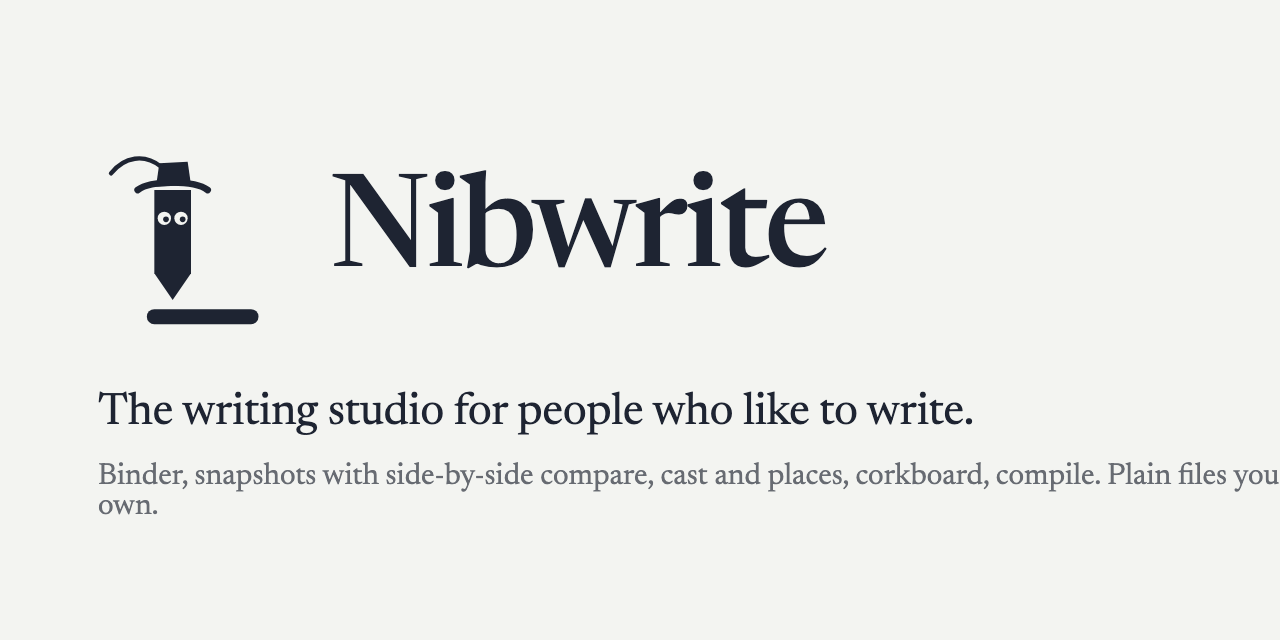
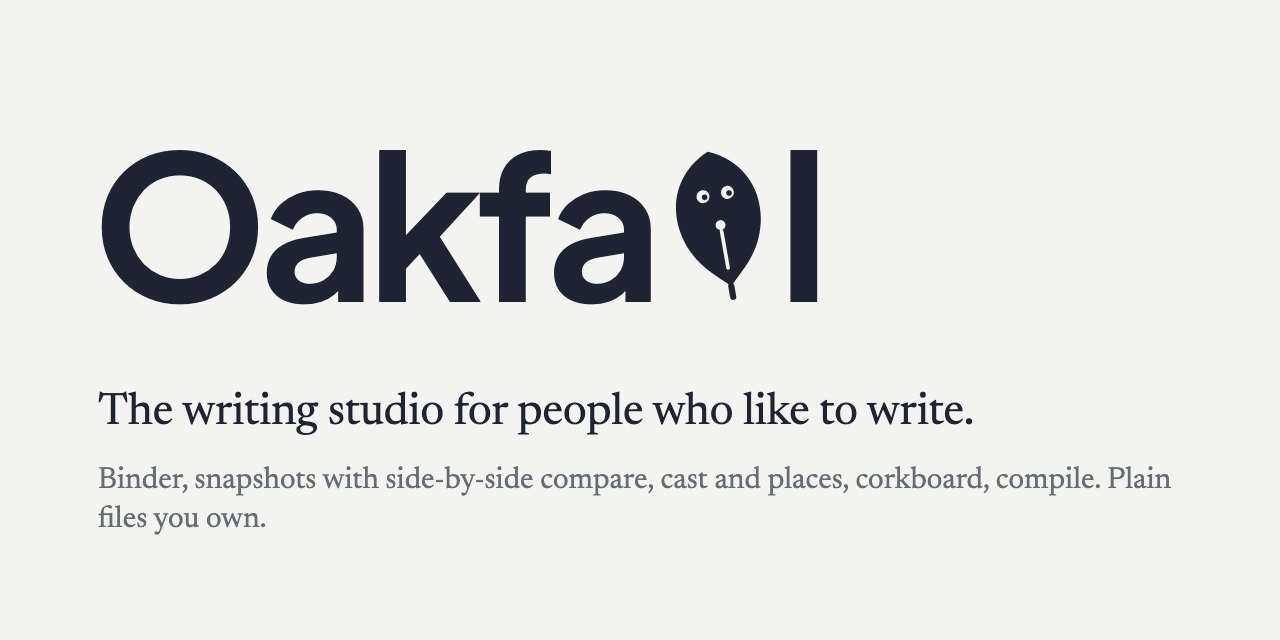
feat(site): Gall-as-l lockup replaces the Nib Rider sting; leaf Gall throughout

Changed region(s): [[0.0625, 0.2188, 0.6562, 0.5312], [0.0625, 0.7188, 1.0, 0.8438]]

diff --git a/index.html b/index.html
@@ -12,7 +12,7 @@
 <meta name="twitter:card" content="summary_large_image">
 <link rel="preconnect" href="https://fonts.googleapis.com">
 <link rel="preconnect" href="https://fonts.gstatic.com" crossorigin>
-<link href="https://fonts.googleapis.com/css2?family=Newsreader:ital,opsz,wght@0,6..72,400;0,6..72,500;0,6..72,600;1,6..72,400&display=swap" rel="stylesheet">
+<link href="https://fonts.googleapis.com/css2?family=Newsreader:ital,opsz,wght@0,6..72,400;0,6..72,500;0,6..72,600;1,6..72,400&family=Plus+Jakarta+Sans:wght@700&display=swap" rel="stylesheet">
 <style>
   :root {
     --paper: #F3F4F1;
@@ -300,12 +300,28 @@
     header nav a { margin-left: 1rem; }
   }
   @media (prefers-reduced-motion: reduce) { del, ins { transition: none; } }
+
+  /* the lockup: Plus Jakarta Sans with Gall as the l. The face never changes. */
+  .wm{font-family:"Plus Jakarta Sans","Helvetica Neue",Arial,sans-serif;font-weight:700;letter-spacing:-.04em;line-height:1;display:inline-flex;align-items:flex-end;color:var(--ink);font-style:normal}
+  .wm-s{font-size:1.7rem}.wm-l{font-size:clamp(4.5rem,13vw,9.5rem)}
+  .gall-l{display:inline-block;width:.62em;height:.98em;margin:0 -.02em 0 .02em;cursor:pointer;perspective:300px}
+  .gall-l svg{width:100%;height:100%;overflow:visible;display:block}
+  .gall-l .gl{transform-box:fill-box;transform-origin:50% 60%}
+  .gall-l.turn .gl{animation:turn 1.4s ease-in-out}
+  @keyframes turn{0%{transform:rotateY(0)}45%{transform:rotateY(180deg)}100%{transform:rotateY(360deg)}}
+  .gall-l.blink .eyes{transform:scaleY(.1);transform-box:fill-box;transform-origin:center}
+  .hero{padding:3.5rem 0 1rem}
+  .hero-note{color:var(--graphite);font-size:1rem;margin:.6rem 0 0}
+  header .name{gap:0}
+  .gall .icon svg,.av-g{width:100%;height:100%}
+  .gall .icon{color:var(--paper)}
+  @media (prefers-reduced-motion: reduce){.gall-l .gl{animation:none!important}}
 </style>
 </head>
 <body>
 <div class="wrap">
   <header>
-    <div class="name"><svg viewBox="0 -14 100 114" aria-hidden="true"><use href="#gall-icon"/></svg>Oakfall</div>
+    <div class="name"><span class="wm wm-s" aria-label="Oakfall">Oakfa<span class="gall-l" title="Gall"><svg class="" viewBox="10 -2 80 104" aria-hidden="true"><g class="gl"><g transform="rotate(-10 50 50)"><path d="M50 4 C 74 14, 84 40, 72 66 C 66 78, 58 84, 50 92 C 42 84, 34 78, 28 66 C 16 40, 26 14, 50 4Z" fill="currentColor"/><g class="eyes"><circle cx="42" cy="32" r="4.2" fill="var(--paper)"/><circle cx="58" cy="32" r="4.2" fill="var(--paper)"/><circle cx="43" cy="32.6" r="1.8" fill="currentColor"/><circle cx="59" cy="32.6" r="1.8" fill="currentColor"/></g><circle cx="50" cy="52" r="3.2" fill="var(--paper)"/><path d="M50 56 V 80" stroke="var(--paper)" stroke-width="2.4" stroke-linecap="round"/><path d="M50 92 V 99" stroke="currentColor" stroke-width="4" stroke-linecap="round"/></g></g></svg></span>l</span></div>
     <nav>
       <a href="https://github.com/oakfall/oakfall">Plugin</a>
       <a href="https://github.com/oakfall/scrivener-to-obsidian">Importer</a>
@@ -316,178 +332,11 @@
     </nav>
   </header>
 
-  <!-- The Nib Rider sting, from brand/exploration/nib-rider-round-4.html. ?t=<seconds> freezes a frame for capture. -->
-  <style>
-  .sting-wrap{margin:1rem 0 2.5rem;background:var(--paper)}
-  .sting-wrap .stage{display:block;width:100%;height:auto}
-  .sting-wrap .sting-bar{display:flex;gap:12px;align-items:center;justify-content:flex-end;padding:6px 0 0;font-size:.9rem;color:var(--graphite)}
-  .sting-wrap button{font:inherit;font-size:.95rem;padding:4px 12px;border:1px solid var(--ink);background:var(--paper);color:var(--ink);border-radius:6px;cursor:pointer}
-  .sting-wrap button:hover{background:var(--ink);color:var(--paper)}
-  #sting{--ride:4.6s;--lead:.5s}
-/* the rider's point follows the same path the ink is drawn along, at the same linear rate */
-.rider{offset-path:path("M-260 362 C -200 362, -160 320, -90 346 S 20 396, 100 344 S 220 306, 300 350 S 420 398, 500 344 S 620 304, 700 350 S 820 398, 900 344 S 1020 306, 1100 350 S 1220 392, 1300 352 S 1400 330, 1460 352");offset-rotate:0deg;offset-distance:0%}
-#sting.play .rider{animation:ride var(--ride) linear var(--lead) forwards, vanish .01s linear calc(var(--ride) + var(--lead)) forwards}
-#sting.play .trail{animation:draw var(--ride) linear var(--lead) forwards, settle 1s ease-out calc(var(--ride) + var(--lead) + .2s) forwards}
-@keyframes settle{to{opacity:.3}}
-#sting.play .depth{animation:depth .98s ease-in-out infinite}
-#sting.play .shadow{animation:shadow .98s ease-in-out infinite}
-#sting.play .skate{animation:skate .33s ease-in-out infinite}
-#sting.play .plume{animation:plume .33s ease-in-out infinite}
-#sting.play .cape{animation:cape .33s ease-in-out infinite}
-#sting.play .trees-far{animation:parallax calc(var(--ride) + var(--lead)) linear forwards}
-#sting.play .trees-near{animation:parallax-near calc(var(--ride) + var(--lead)) linear forwards}
-#sting.play .trees-front{animation:parallax-front calc(var(--ride) + var(--lead)) linear forwards}
-#sting.play .word{animation:word 1.1s ease-out calc(var(--ride) + var(--lead) + .3s) forwards}
-#sting.play .stand{animation:peek 1.3s cubic-bezier(.2,.9,.3,1.2) calc(var(--ride) + var(--lead) + .9s) forwards}
-@keyframes peek{to{transform:translate(0,0) rotate(0)}}
-#sting.play .stand .blink{animation:blink 3.2s step-end calc(var(--ride) + var(--lead) + 2s) infinite}
-#sting.play .stand .tip{animation:tip .9s ease-in-out calc(var(--ride) + var(--lead) + 2s) 1}
-@keyframes ride{from{offset-distance:0%}to{offset-distance:100%}}
-@keyframes vanish{to{opacity:0}}
-@keyframes appear{to{opacity:1}}
-@keyframes draw{to{stroke-dashoffset:0}}
-@keyframes depth{0%,100%{transform:scale(.92)}50%{transform:scale(1.08)}}
-@keyframes shadow{0%,100%{transform:scale(.7);opacity:.10}50%{transform:scale(1.15);opacity:.22}}
-@keyframes skate{0%,100%{transform:translateY(0) rotate(-3deg)}50%{transform:translateY(-7px) rotate(3deg)}}
-@keyframes plume{0%,100%{transform:rotate(0deg)}50%{transform:rotate(-16deg)}}
-@keyframes cape{0%,100%{transform:skewX(0) scaleX(1)}50%{transform:skewX(-12deg) scaleX(1.15)}}
-@keyframes parallax{to{transform:translateX(-90px)}}
-@keyframes parallax-near{to{transform:translateX(-260px)}}
-@keyframes parallax-front{to{transform:translateX(-620px)}}
-@keyframes word{to{opacity:1;transform:translateY(0)}}
-@keyframes blink{0%,94%{transform:scaleY(1)}95%,100%{transform:scaleY(.08)}}
-@keyframes tip{0%,100%{transform:rotate(0)}40%{transform:rotate(-24deg) translateY(-6px)}}
-.word{opacity:0;transform:translateY(10px)}
-.word-rule{stroke-dasharray:420;stroke-dashoffset:420}
-#sting.play .word-rule{animation:draw-rule .9s ease-out calc(var(--ride) + var(--lead) + .6s) forwards}
-@keyframes draw-rule{to{stroke-dashoffset:0}}
-.stand{transform:translate(0,170px) rotate(22deg)}
-.depth{transform-origin:0 0}
-.shadow{transform-origin:center;transform-box:fill-box}
-.blink{transform-origin:center;transform-box:fill-box}
-.tip{transform-origin:60% 100%;transform-box:fill-box}
-.skate,.plume,.cape{transform-box:fill-box}
-.skate{transform-origin:50% 100%}
-.plume{transform-origin:right center}
-.cape{transform-origin:right center}
-/* end state, for reduced motion: the line already drawn and faded, the word up, the icon on its line */
-#sting.done .rider{opacity:0}
-#sting.done .trail{opacity:.3;stroke-dashoffset:0!important}
-#sting.done .word{opacity:1;transform:none}
-#sting.done .word-rule{stroke-dashoffset:0}
-#sting.done .stand{transform:none}
-
-  </style>
-  <svg width="0" height="0" style="position:absolute" aria-hidden="true">
-  <defs>
-    <!-- The mark itself, untouched. -->
-    <g id="mark-body">
-      <polygon points="28,10 50,10 50,60 39,76 28,60" fill="var(--ink)"/>
-      <circle cx="39" cy="44" r="3.5" fill="var(--paper)"/>
-      <line x1="39" y1="47" x2="39" y2="62" stroke="var(--paper)" stroke-width="3"/>
-    </g>
-    <!-- Eyes in the shoulders, above the breather hole. -->
-    <g id="mark-eyes" class="blink">
-      <circle cx="34" cy="27" r="4" fill="var(--paper)"/><circle cx="44" cy="27" r="4" fill="var(--paper)"/>
-      <circle cx="35" cy="27.6" r="1.7" fill="var(--ink)"/><circle cx="45" cy="27.6" r="1.7" fill="var(--ink)"/>
-    </g>
-    <!-- Musketeer hat on the square shoulders. -->
-    <g id="mark-hat" class="tip">
-      <path d="M18 10 C 26 4, 52 4, 60 10" stroke="var(--ink)" stroke-width="4" stroke-linecap="round" fill="none"/>
-      <path d="M29 8 L 31 -6 L 48 -7 L 50 7 Z" fill="var(--ink)"/>
-      <g class="plume">
-        <path d="M32 -4 C 22 -12, 10 -10, 2 0" stroke="var(--ink)" stroke-width="2.6" stroke-linecap="round" fill="none"/>
-        <path d="M30 -7 C 22 -13, 14 -12, 8 -7" stroke="var(--ink)" stroke-width="1.4" stroke-linecap="round" fill="none" opacity=".6"/>
-      </g>
-    </g>
-
-    <!-- A. Gall on the move: the mark, on its own baseline, with cape, arms, rapier. viewBox -10 -20 120 120 -->
-    <symbol id="gall" viewBox="-10 -20 120 120">
-      <g class="skate">
-        <g class="cape"><path d="M30 30 C 18 26, 10 36, 0 32 C 8 44, 20 46, 30 42 Z" fill="var(--ink)" opacity=".9"/></g>
-        <use href="#mark-body"/>
-        <use href="#mark-eyes"/>
-        <!-- arms -->
-        <path d="M29 36 C 22 40, 18 46, 20 52" stroke="var(--ink)" stroke-width="4" stroke-linecap="round" fill="none"/>
-        <path d="M49 34 C 56 32, 62 26, 66 18" stroke="var(--ink)" stroke-width="4" stroke-linecap="round" fill="none"/>
-        <!-- rapier -->
-        <path d="M66 18 L 78 -4" stroke="var(--ink)" stroke-width="1.8" stroke-linecap="round"/>
-        <path d="M63 21 C 66 17, 69 17, 71 20" stroke="var(--ink)" stroke-width="1.6" stroke-linecap="round" fill="none"/>
-        <use href="#mark-hat"/>
-      </g>
-    </symbol>
-
-    <!-- B. The mark with eyes and hat, standing on its line. The app's assistant icon. viewBox 0 -14 100 114 -->
-    <symbol id="gall-icon" viewBox="0 -14 100 114">
-      <use href="#mark-body"/>
-      <use href="#mark-eyes"/>
-      <use href="#mark-hat"/>
-      <path d="M28 86 H 86" stroke="var(--ink)" stroke-width="9" stroke-linecap="round"/>
-    </symbol>
-
-    <!-- C. Hello: hat off, held out, standing on the line. -->
-    <symbol id="gall-bow" viewBox="-10 -14 120 114">
-      <use href="#mark-body"/>
-      <g class="blink">
-        <circle cx="34" cy="27" r="4" fill="var(--paper)"/><circle cx="44" cy="27" r="4" fill="var(--paper)"/>
-        <circle cx="34" cy="28.4" r="1.7" fill="var(--ink)"/><circle cx="44" cy="28.4" r="1.7" fill="var(--ink)"/>
-      </g>
-      <path d="M29 36 C 20 38, 14 34, 12 28" stroke="var(--ink)" stroke-width="4" stroke-linecap="round" fill="none"/>
-      <path d="M49 36 C 58 40, 66 38, 70 32" stroke="var(--ink)" stroke-width="4" stroke-linecap="round" fill="none"/>
-      <g transform="translate(60 14) rotate(30)">
-        <path d="M0 18 C 8 12, 34 12, 42 18" stroke="var(--ink)" stroke-width="4" stroke-linecap="round" fill="none"/>
-        <path d="M11 16 L 13 2 L 30 1 L 32 15 Z" fill="var(--ink)"/>
-        <path d="M14 4 C 22 -4, 32 -5, 42 2" stroke="var(--ink)" stroke-width="2.4" stroke-linecap="round" fill="none"/>
-      </g>
-      <path d="M28 86 H 86" stroke="var(--ink)" stroke-width="9" stroke-linecap="round"/>
-    </symbol>
-      <!-- D. Standing, no baseline: for the end card, where the rule he just drew is his line -->
-    <symbol id="gall-stand" viewBox="0 -14 100 114">
-      <use href="#mark-body"/>
-      <use href="#mark-eyes"/>
-      <use href="#mark-hat"/>
-    </symbol>
-  </defs>
-</svg>
-  <div class="sting-wrap" aria-label="Gall, the assistant, gallops through a forest drawing a line of ink; Oakfall appears">
-    <svg id="sting" class="stage" viewBox="0 0 1120 480" role="img" aria-label="Gall gallops through a forest, weaving between trees, drawing an ink line that becomes the underline of Oakfall">
-    <rect width="1120" height="480" fill="var(--paper)"/>
-    <!-- far trees, faint, slow -->
-    <g class="trees-far" fill="var(--ink)" opacity=".08">
-      <path d="M40 420 L70 300 L100 420 Z"/><path d="M130 420 L150 340 L170 420 Z"/><path d="M230 420 L270 270 L310 420 Z"/><path d="M360 420 L380 330 L400 420 Z"/><path d="M470 420 L510 280 L550 420 Z"/><path d="M620 420 L640 350 L660 420 Z"/><path d="M720 420 L760 290 L800 420 Z"/><path d="M860 420 L880 340 L900 420 Z"/><path d="M960 420 L1000 270 L1040 420 Z"/><path d="M1100 420 L1130 320 L1160 420 Z"/><path d="M1200 420 L1240 280 L1280 420 Z"/>
-    </g>
-    <!-- mid trees, behind him -->
-    <g class="trees-near" fill="var(--ink)" opacity=".18">
-      <path d="M-20 440 L30 230 L80 440 Z"/><path d="M180 440 L210 320 L240 440 Z"/><path d="M300 440 L350 220 L400 440 Z"/><path d="M520 440 L550 330 L580 440 Z"/><path d="M700 440 L750 210 L800 440 Z"/><path d="M940 440 L970 320 L1000 440 Z"/><path d="M1120 440 L1170 230 L1220 440 Z"/><path d="M1340 440 L1370 320 L1400 440 Z"/>
-    </g>
-    <path d="M0 440 H1120" stroke="var(--ink)" stroke-width="3" opacity=".25"/>
-    <!-- the ink line -->
-    <path id="trail" class="trail" d="M-260 362 C -200 362, -160 320, -90 346 S 20 396, 100 344 S 220 306, 300 350 S 420 398, 500 344 S 620 304, 700 350 S 820 398, 900 344 S 1020 306, 1100 350 S 1220 392, 1300 352 S 1400 330, 1460 352" fill="none" stroke="var(--ink)" stroke-width="5" stroke-linecap="round"/>
-    <!-- Gall: the group's origin is his point; it rides the path -->
-    <g class="rider">
-      <g class="depth">
-        <ellipse class="shadow" cx="0" cy="8" rx="40" ry="7" fill="var(--ink)" opacity=".14"/>
-        <!-- 2.4x the mark; point (39,76) in a -10,-20 viewBox is (117.6, 230.4) -->
-        <svg x="-117.6" y="-230.4" width="288" height="288" viewBox="-10 -20 120 120"><use href="#gall"/></svg>
-      </g>
-    </g>
-    <!-- front trees, darkest and fastest, in front of him -->
-    <g class="trees-front" fill="var(--ink)" opacity=".34">
-      <path d="M60 470 L110 190 L160 470 Z"/><path d="M330 470 L360 300 L390 470 Z"/><path d="M620 470 L680 150 L740 470 Z"/><path d="M1000 470 L1040 260 L1080 470 Z"/><path d="M1320 470 L1380 160 L1440 470 Z"/><path d="M1620 470 L1660 280 L1700 470 Z"/>
-    </g>
-    <!-- the word rises as he starts the rule -->
-    <g class="word">
-      <text x="560" y="250" text-anchor="middle" font-family="Newsreader, Georgia, serif" font-weight="500" font-size="112" letter-spacing="-0.02em" fill="var(--ink)">Oakfall</text>
-    </g>
-    <path class="word-rule" d="M350 282 C 420 272, 700 272, 770 282" fill="none" stroke="var(--ink)" stroke-width="5" stroke-linecap="round"/>
-    <!-- the icon peeks up in the corner on its own line -->
-    <g class="stand">
-      <!-- point (39,76) in a 0,-14 viewBox at 2.4x is (93.6, 216); rule ends at (870,282) -->
-      <svg x="900" y="262" width="190" height="200" viewBox="0 -14 100 114"><use href="#gall-icon"/></svg>
-    </g>
-  </svg>
-    <div class="sting-bar"><button id="sting-play" type="button">Play again</button></div>
+  <div class="hero">
+    <div class="hero-mark"><span class="wm wm-l" aria-label="Oakfall">Oakfa<span class="gall-l" title="Gall"><svg class="" viewBox="10 -2 80 104" aria-hidden="true"><g class="gl"><g transform="rotate(-10 50 50)"><path d="M50 4 C 74 14, 84 40, 72 66 C 66 78, 58 84, 50 92 C 42 84, 34 78, 28 66 C 16 40, 26 14, 50 4Z" fill="currentColor"/><g class="eyes"><circle cx="42" cy="32" r="4.2" fill="var(--paper)"/><circle cx="58" cy="32" r="4.2" fill="var(--paper)"/><circle cx="43" cy="32.6" r="1.8" fill="currentColor"/><circle cx="59" cy="32.6" r="1.8" fill="currentColor"/></g><circle cx="50" cy="52" r="3.2" fill="var(--paper)"/><path d="M50 56 V 80" stroke="var(--paper)" stroke-width="2.4" stroke-linecap="round"/><path d="M50 92 V 99" stroke="currentColor" stroke-width="4" stroke-linecap="round"/></g></g></svg></span>l</span></div>
+    <p class="hero-note">Gall lives in the l. Click him.</p>
   </div>
+
 
   <h1>The writing studio for people who like to write.</h1>
   <p class="lede">Binder, snapshots with side-by-side compare, cast and places, corkboard, timeline, research, and compile, over a folder of plain Markdown. Today that is an Obsidian plugin and a Scrivener importer, both open. Next is the Oakfall app for desktop, tablet, and phone, with sync and the editor tools as the one subscription. Everything is stored as Markdown, frontmatter, and git commits, so <em>nothing needs Oakfall to be read.</em></p>
@@ -734,7 +583,7 @@
   <section class="feature" id="gall">
     <h2>Meet Gall.</h2>
     <div class="gall">
-      <div class="icon"><svg viewBox="0 0 100 100" aria-hidden="true"><polygon points="28,10 50,10 50,60 39,76 28,60" fill="currentColor"/><circle cx="39" cy="44" r="3.5" fill="#FBFBF9"/><line x1="39" y1="47" x2="39" y2="62" stroke="#FBFBF9" stroke-width="3"/><path d="M28 86 H 86" stroke="currentColor" stroke-width="9" stroke-linecap="round"/></svg></div>
+      <div class="icon"><svg class="av-g" viewBox="-6 -4 112 108" aria-hidden="true"><g class="gl"><g transform="rotate(-10 50 50)"><path d="M50 4 C 74 14, 84 40, 72 66 C 66 78, 58 84, 50 92 C 42 84, 34 78, 28 66 C 16 40, 26 14, 50 4Z" fill="currentColor"/><g class="eyes"><circle cx="42" cy="32" r="4.2" fill="var(--ink)"/><circle cx="58" cy="32" r="4.2" fill="var(--ink)"/><circle cx="43" cy="32.6" r="1.8" fill="currentColor"/><circle cx="59" cy="32.6" r="1.8" fill="currentColor"/></g><circle cx="50" cy="52" r="3.2" fill="var(--ink)"/><path d="M50 56 V 80" stroke="var(--ink)" stroke-width="2.4" stroke-linecap="round"/><path d="M50 92 V 99" stroke="currentColor" stroke-width="4" stroke-linecap="round"/></g></g></svg></div>
       <div>
         <p>Every studio has someone who knows where things are. Gall is Oakfall's. It lives in the margin, knows your manuscript, and stays out of your prose. Ask it what changed in chapter four since the June draft, where Tom was last seen, which scenes still mention the tin after you cut it, or whether a synopsis still matches its scene. It answers from your files and your history, and anything it changes lands as an ordinary edit or a snapshot you can undo.</p>
         <p>Half of Gall needs no model at all. Where someone was last seen, what is set at a place, who is in a scene, which places have no scene yet, how long a chapter is, where a note sits on a map: those are lookups over your files, and that half of Gall is open source, works offline, and ships with the plugin and the app. The half that reads your prose is the hosted one.</p>
@@ -743,10 +592,10 @@
     </div>
     <div class="chat" aria-label="Example conversation with Gall">
       <div class="msg"><div class="av">You</div><div><p class="you">what changed in the tin since the june snapshot?</p></div></div>
-      <div class="msg"><div class="av n"><svg viewBox="0 0 100 100" aria-hidden="true"><polygon points="28,10 50,10 50,60 39,76 28,60" fill="currentColor"/><circle cx="39" cy="44" r="3.5" fill="#FBFBF9"/><line x1="39" y1="47" x2="39" y2="62" stroke="#FBFBF9" stroke-width="3"/><path d="M28 86 H 86" stroke="currentColor" stroke-width="9" stroke-linecap="round"/></svg></div><div><p>Two things in <em>02 The Tin</em> since “Second draft, 2 Oct 2021”: the dream sequence is gone, 412 words, and Mara now opens the tin in the kitchen instead of the yard. Tom is not mentioned in either version.</p><p><span class="act">Compare side by side</span><span class="act">Restore the dream sequence</span></p></div></div>
+      <div class="msg"><div class="av n"><svg class="av-g" viewBox="-6 -4 112 108" aria-hidden="true"><g class="gl"><g transform="rotate(-10 50 50)"><path d="M50 4 C 74 14, 84 40, 72 66 C 66 78, 58 84, 50 92 C 42 84, 34 78, 28 66 C 16 40, 26 14, 50 4Z" fill="currentColor"/><g class="eyes"><circle cx="42" cy="32" r="4.2" fill="var(--ink)"/><circle cx="58" cy="32" r="4.2" fill="var(--ink)"/><circle cx="43" cy="32.6" r="1.8" fill="currentColor"/><circle cx="59" cy="32.6" r="1.8" fill="currentColor"/></g><circle cx="50" cy="52" r="3.2" fill="var(--ink)"/><path d="M50 56 V 80" stroke="var(--ink)" stroke-width="2.4" stroke-linecap="round"/><path d="M50 92 V 99" stroke="currentColor" stroke-width="4" stroke-linecap="round"/></g></g></svg></div><div><p>Two things in <em>02 The Tin</em> since “Second draft, 2 Oct 2021”: the dream sequence is gone, 412 words, and Mara now opens the tin in the kitchen instead of the yard. Tom is not mentioned in either version.</p><p><span class="act">Compare side by side</span><span class="act">Restore the dream sequence</span></p></div></div>
       <div class="msg"><div class="av">You</div><div><p class="you">did i lose anything that other scenes depend on?</p></div></div>
-      <div class="msg"><div class="av n"><svg viewBox="0 0 100 100" aria-hidden="true"><polygon points="28,10 50,10 50,60 39,76 28,60" fill="currentColor"/><circle cx="39" cy="44" r="3.5" fill="#FBFBF9"/><line x1="39" y1="47" x2="39" y2="62" stroke="#FBFBF9" stroke-width="3"/><path d="M28 86 H 86" stroke="currentColor" stroke-width="9" stroke-linecap="round"/></svg></div><div><p>One thing. <em>08 Last Stall</em> refers to “the dream about the buttons,” which only existed in the cut passage. Nothing else in Part One or Two points at it.</p><p><span class="act">Open 08 Last Stall at that line</span></p></div></div>
-      <div class="msg"><div class="av n"><svg viewBox="0 0 100 100" aria-hidden="true"><polygon points="28,10 50,10 50,60 39,76 28,60" fill="currentColor"/><circle cx="39" cy="44" r="3.5" fill="#FBFBF9"/><line x1="39" y1="47" x2="39" y2="62" stroke="#FBFBF9" stroke-width="3"/><path d="M28 86 H 86" stroke="currentColor" stroke-width="9" stroke-linecap="round"/></svg></div><div><p>It looks like you're rewriting chapter four. Want the June draft beside it? That was the one joke. It will not happen again.</p></div></div>
+      <div class="msg"><div class="av n"><svg class="av-g" viewBox="-6 -4 112 108" aria-hidden="true"><g class="gl"><g transform="rotate(-10 50 50)"><path d="M50 4 C 74 14, 84 40, 72 66 C 66 78, 58 84, 50 92 C 42 84, 34 78, 28 66 C 16 40, 26 14, 50 4Z" fill="currentColor"/><g class="eyes"><circle cx="42" cy="32" r="4.2" fill="var(--ink)"/><circle cx="58" cy="32" r="4.2" fill="var(--ink)"/><circle cx="43" cy="32.6" r="1.8" fill="currentColor"/><circle cx="59" cy="32.6" r="1.8" fill="currentColor"/></g><circle cx="50" cy="52" r="3.2" fill="var(--ink)"/><path d="M50 56 V 80" stroke="var(--ink)" stroke-width="2.4" stroke-linecap="round"/><path d="M50 92 V 99" stroke="currentColor" stroke-width="4" stroke-linecap="round"/></g></g></svg></div><div><p>One thing. <em>08 Last Stall</em> refers to “the dream about the buttons,” which only existed in the cut passage. Nothing else in Part One or Two points at it.</p><p><span class="act">Open 08 Last Stall at that line</span></p></div></div>
+      <div class="msg"><div class="av n"><svg class="av-g" viewBox="-6 -4 112 108" aria-hidden="true"><g class="gl"><g transform="rotate(-10 50 50)"><path d="M50 4 C 74 14, 84 40, 72 66 C 66 78, 58 84, 50 92 C 42 84, 34 78, 28 66 C 16 40, 26 14, 50 4Z" fill="currentColor"/><g class="eyes"><circle cx="42" cy="32" r="4.2" fill="var(--ink)"/><circle cx="58" cy="32" r="4.2" fill="var(--ink)"/><circle cx="43" cy="32.6" r="1.8" fill="currentColor"/><circle cx="59" cy="32.6" r="1.8" fill="currentColor"/></g><circle cx="50" cy="52" r="3.2" fill="var(--ink)"/><path d="M50 56 V 80" stroke="var(--ink)" stroke-width="2.4" stroke-linecap="round"/><path d="M50 92 V 99" stroke="currentColor" stroke-width="4" stroke-linecap="round"/></g></g></svg></div><div><p>It looks like you're rewriting chapter four. Want the June draft beside it? That was the one joke. It will not happen again.</p></div></div>
     </div>
   </section>
 
@@ -1042,19 +891,19 @@ scriv2obsidian convert -out ~/Writing -git Novel.scriv</pre>
   frame();
 })();
 </script>
-<script>
-const s=document.getElementById('sting');
-const trail=document.getElementById('trail');
-const L=trail.getTotalLength();
-trail.style.strokeDasharray=L;trail.style.strokeDashoffset=L;
-const play=()=>{s.classList.remove('play');void s.getBoundingClientRect();s.classList.add('play')};
-document.getElementById('sting-play').onclick=play;
 
-const t=new URLSearchParams(location.search).get('t');
-const reduce=window.matchMedia&&window.matchMedia('(prefers-reduced-motion: reduce)').matches;
-if(t!==null){s.classList.add('play');requestAnimationFrame(()=>{for(const a of document.getAnimations()){a.pause();a.currentTime=parseFloat(t)*1000;}});}
-else if(reduce){s.classList.add('done');}
-else setTimeout(play,400);
+<script>
+  // Gall: blinks, and turns over like a leaf now and then and when clicked.
+  (function () {
+    var reduce = window.matchMedia && window.matchMedia('(prefers-reduced-motion: reduce)').matches;
+    var ls = document.querySelectorAll('.gall-l');
+    function turn(el) { el.classList.remove('turn'); void el.offsetWidth; el.classList.add('turn'); setTimeout(function () { el.classList.remove('turn'); }, 1500); }
+    function blink(el) { el.classList.add('blink'); setTimeout(function () { el.classList.remove('blink'); }, 130); }
+    ls.forEach(function (el) { el.addEventListener('click', function () { turn(el); }); });
+    if (reduce) return;
+    setTimeout(function () { ls.forEach(turn); }, 900);
+    (function life() { setTimeout(function () { ls.forEach(function (el) { Math.random() < .2 ? turn(el) : blink(el); }); life(); }, 3000 + Math.random() * 3500); })();
+  })();
 </script>
 </body>
 </html>

diff --git a/brand/social/social-preview.html b/brand/social/social-preview.html
@@ -1,14 +1,13 @@
 <!doctype html><meta charset="utf-8">
-<link href="https://fonts.googleapis.com/css2?family=Newsreader:opsz,wght@6..72,400;6..72,500&display=block" rel="stylesheet">
+<link href="https://fonts.googleapis.com/css2?family=Newsreader:opsz,wght@6..72,400;6..72,500&family=Plus+Jakarta+Sans:wght@700&display=block" rel="stylesheet">
 <style>html,body{margin:0;width:1280px;height:640px;overflow:hidden;background:#F3F4F1}
-.card{position:relative;width:1280px;height:640px;font-family:"Newsreader",Georgia,serif;color:#1E2432}
-svg{position:absolute;left:96px;top:150px;width:190px;height:190px}
-.name{position:absolute;left:330px;top:172px;font-size:128px;font-weight:500;letter-spacing:-3px;line-height:1}
+.card{position:relative;width:1280px;height:640px;font-family:"Newsreader",Georgia,serif;color:#1E2432;--paper:#F3F4F1}
+.wm{position:absolute;left:92px;top:120px;font-family:"Plus Jakarta Sans",sans-serif;font-weight:700;font-size:200px;letter-spacing:-.04em;line-height:1;display:inline-flex;align-items:flex-end}
+.gall-l{display:inline-block;width:.62em;height:.98em;margin:0 -.02em 0 .02em}.gall-l svg{width:100%;height:100%;overflow:visible}
 .tag{position:absolute;left:98px;top:392px;font-size:44px}
-.sub{position:absolute;left:98px;top:462px;font-size:30px;color:#676B72}</style>
+.sub{position:absolute;left:98px;top:462px;right:96px;font-size:30px;line-height:1.3;color:#676B72}</style>
 <div class="card">
-<svg viewBox="0 -14 100 114"><polygon points="28,10 50,10 50,60 39,76 28,60" fill="#1E2432"/><circle cx="34" cy="27" r="4" fill="#F3F4F1"/><circle cx="44" cy="27" r="4" fill="#F3F4F1"/><circle cx="35" cy="27.6" r="1.7" fill="#1E2432"/><circle cx="45" cy="27.6" r="1.7" fill="#1E2432"/><path d="M18 10 C 26 4, 52 4, 60 10" stroke="#1E2432" stroke-width="4" stroke-linecap="round" fill="none"/><path d="M29 8 L 31 -6 L 48 -7 L 50 7 Z" fill="#1E2432"/><path d="M32 -4 C 22 -12, 10 -10, 2 0" stroke="#1E2432" stroke-width="2.6" stroke-linecap="round" fill="none"/><path d="M28 86 H 86" stroke="#1E2432" stroke-width="9" stroke-linecap="round"/></svg>
-<div class="name">Oakfall</div>
+<span class="wm">Oakfa<span class="gall-l"><svg class="" viewBox="10 -2 80 104" aria-hidden="true"><g class="gl"><g transform="rotate(-10 50 50)"><path d="M50 4 C 74 14, 84 40, 72 66 C 66 78, 58 84, 50 92 C 42 84, 34 78, 28 66 C 16 40, 26 14, 50 4Z" fill="currentColor"/><g class="eyes"><circle cx="42" cy="32" r="4.2" fill="#F3F4F1"/><circle cx="58" cy="32" r="4.2" fill="#F3F4F1"/><circle cx="43" cy="32.6" r="1.8" fill="currentColor"/><circle cx="59" cy="32.6" r="1.8" fill="currentColor"/></g><circle cx="50" cy="52" r="3.2" fill="#F3F4F1"/><path d="M50 56 V 80" stroke="#F3F4F1" stroke-width="2.4" stroke-linecap="round"/><path d="M50 92 V 99" stroke="currentColor" stroke-width="4" stroke-linecap="round"/></g></g></svg></span>l</span>
 <div class="tag">The writing studio for people who like to write.</div>
 <div class="sub">Binder, snapshots with side-by-side compare, cast and places, corkboard, compile. Plain files you own.</div>
 </div>

diff --git a/faq.html b/faq.html
@@ -12,7 +12,7 @@
 <meta name="twitter:card" content="summary_large_image">
 <link rel="preconnect" href="https://fonts.googleapis.com">
 <link rel="preconnect" href="https://fonts.gstatic.com" crossorigin>
-<link href="https://fonts.googleapis.com/css2?family=Newsreader:ital,opsz,wght@0,6..72,400;0,6..72,500;0,6..72,600;1,6..72,400&display=swap" rel="stylesheet">
+<link href="https://fonts.googleapis.com/css2?family=Newsreader:ital,opsz,wght@0,6..72,400;0,6..72,500;0,6..72,600;1,6..72,400&family=Plus+Jakarta+Sans:wght@700&display=swap" rel="stylesheet">
 <style>
   :root {
     --paper: #F3F4F1;
@@ -320,6 +320,17 @@
     header nav a { margin-left: 1rem; }
   }
   @media (prefers-reduced-motion: reduce) { del, ins { transition: none; } }
+
+  /* the lockup: Plus Jakarta Sans with Gall as the l. The face never changes. */
+  .wm{font-family:"Plus Jakarta Sans","Helvetica Neue",Arial,sans-serif;font-weight:700;letter-spacing:-.04em;line-height:1;display:inline-flex;align-items:flex-end;color:var(--ink);font-style:normal}
+  .wm-s{font-size:1.7rem}.wm-l{font-size:clamp(4.5rem,13vw,9.5rem)}
+  .gall-l{display:inline-block;width:.62em;height:.98em;margin:0 -.02em 0 .02em;cursor:pointer;perspective:300px}
+  .gall-l svg{width:100%;height:100%;overflow:visible;display:block}
+  .gall-l .gl{transform-box:fill-box;transform-origin:50% 60%}
+  .gall-l.turn .gl{animation:turn 1.4s ease-in-out}
+  @keyframes turn{0%{transform:rotateY(0)}45%{transform:rotateY(180deg)}100%{transform:rotateY(360deg)}}
+  .gall-l.blink .eyes{transform:scaleY(.1);transform-box:fill-box;transform-origin:center}
+    header .name{gap:0}
 </style>
 </head>
 <body>
